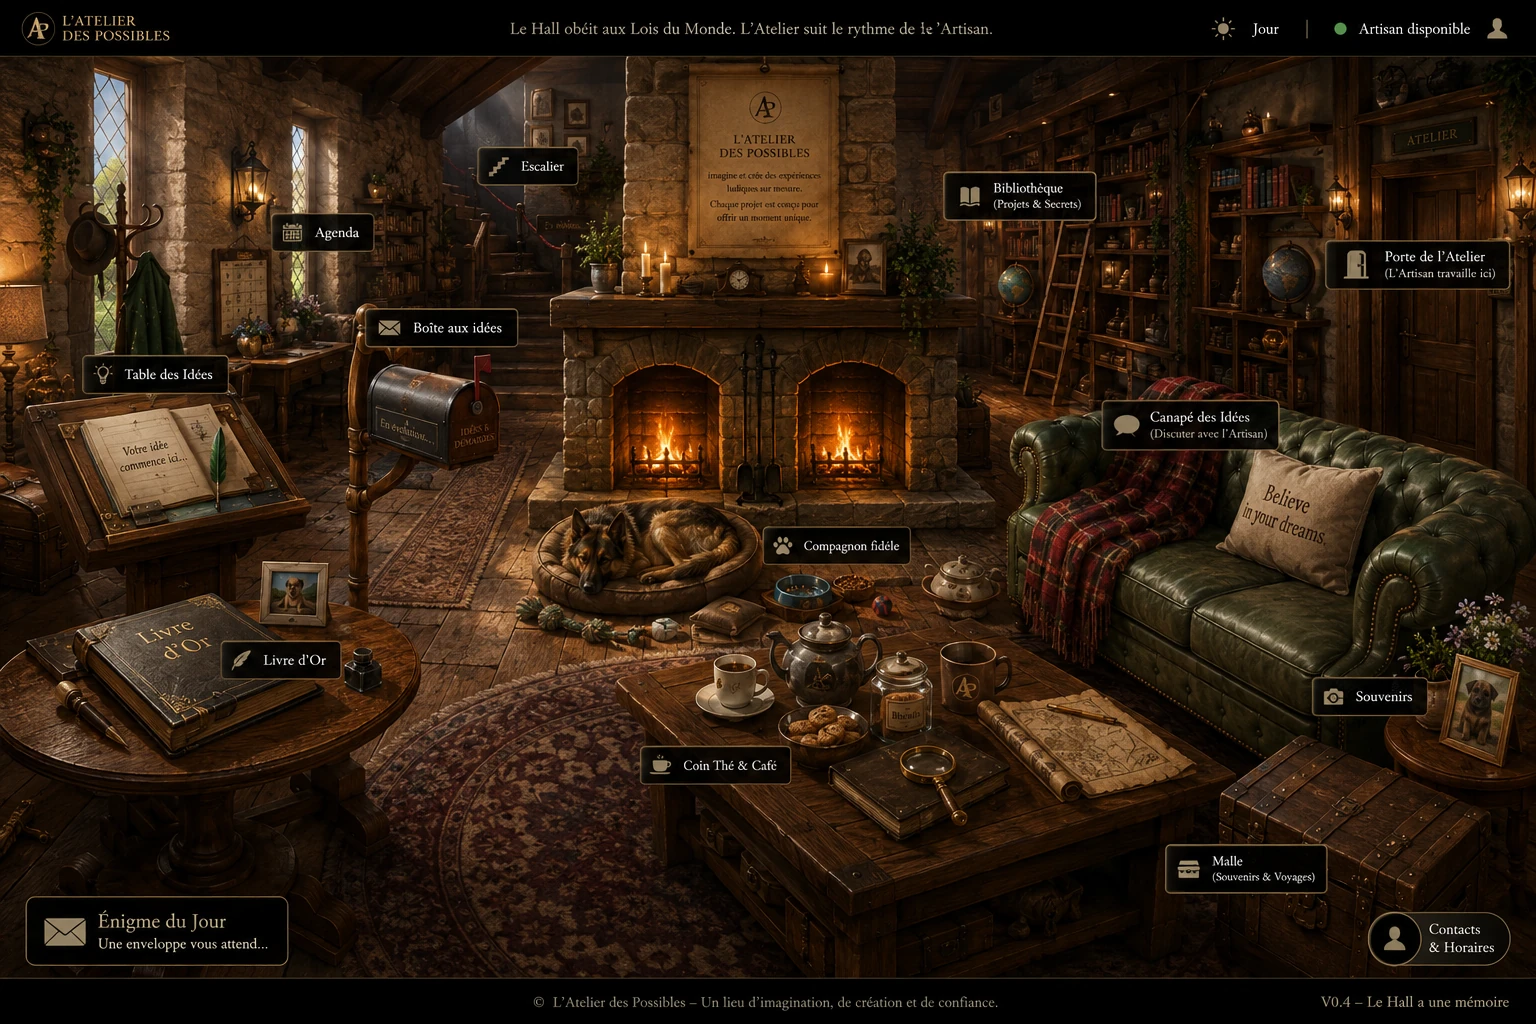
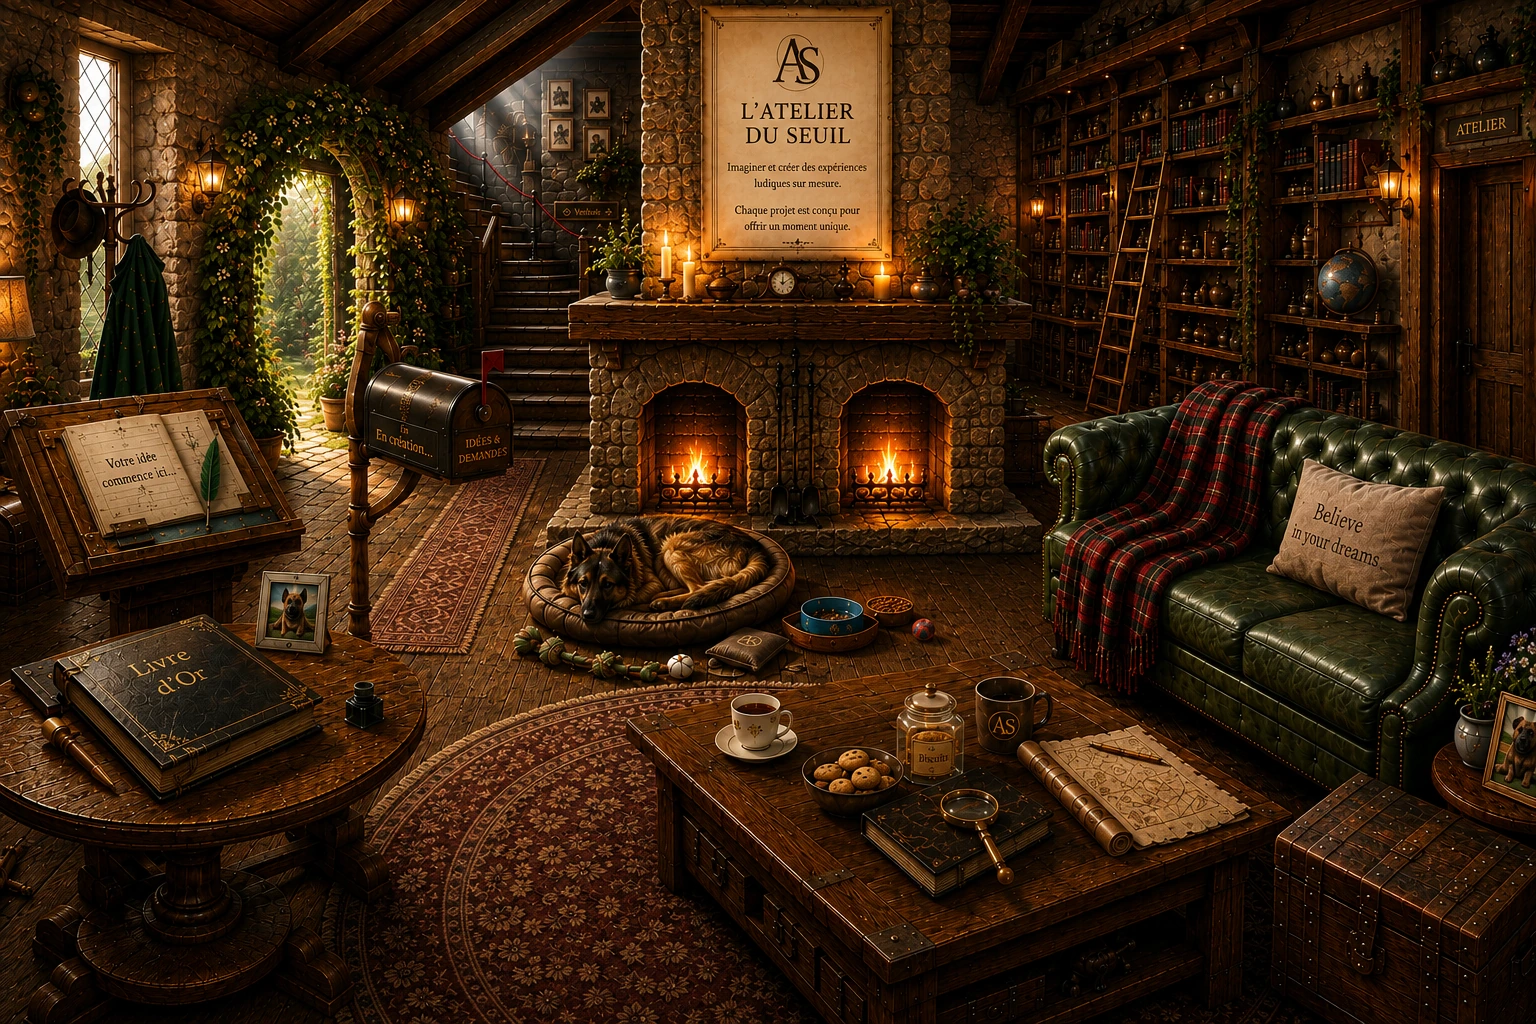
Add files via upload

diff --git a/style.css b/style.css
@@ -418,4 +418,127 @@ button { font: inherit; }
   .choix { display: grid; grid-template-columns: 1fr 1fr; }
   .choix span { display: block; text-align: center; }
 }
-\n\n/* --- V0.6.1 — Le Hall accuse réception --- */\n.mail-flag {\n  position: absolute;\n  left: 30.5%;\n  top: 31.5%;\n  width: 1.2%;\n  min-width: 7px;\n  height: 8.5%;\n  pointer-events: none;\n  opacity: 0;\n  transform-origin: 50% 100%;\n  transform: rotate(-72deg) translateY(10%);\n  border-radius: 6px 6px 2px 2px;\n  background: linear-gradient(90deg, #6b4324, #b98045 48%, #58351d);\n  box-shadow: 0 2px 8px rgba(0,0,0,.6);\n  transition: opacity .4s ease;\n}\n.mail-flag::before {\n  content: "";\n  position: absolute;\n  left: 42%;\n  bottom: -30%;\n  width: 20%;\n  height: 135%;\n  border-radius: 3px;\n  background: #5a351c;\n}\n\n.requete-book {\n  position: absolute;\n  left: 66.8%;\n  top: 31.2%;\n  width: 4.2%;\n  height: 9.5%;\n  min-width: 24px;\n  pointer-events: none;\n  display: grid;\n  place-items: center;\n  opacity: 0;\n  transform: translateY(-36%) rotate(-3deg) scale(.92);\n  border: 1px solid rgba(205,163,86,.72);\n  border-radius: 2px 5px 5px 2px;\n  background: linear-gradient(90deg,#2c1b12 0 13%,#684425 15% 84%,#3b2517 86%);\n  box-shadow: 4px 5px 10px rgba(0,0,0,.55), inset -2px 0 rgba(255,255,255,.05);\n  transition: opacity .5s ease;\n}\n.requete-book span {\n  writing-mode: vertical-rl;\n  transform: rotate(180deg);\n  max-height: 88%;\n  overflow: hidden;\n  color: rgba(238,215,170,.82);\n  font-size: clamp(5px,.5vw,9px);\n  letter-spacing: .04em;\n  white-space: nowrap;\n}\n\n.hall__scene.has-confided-idea .mail-flag {\n  opacity: 1;\n  animation: lever-drapeau 1.15s cubic-bezier(.2,.8,.24,1) both;\n}\n.hall__scene.has-confided-idea .requete-book {\n  opacity: 1;\n  animation: livre-arrive 1.45s cubic-bezier(.16,.82,.22,1) .35s both;\n}\n\n@keyframes lever-drapeau {\n  0% { opacity: 0; transform: rotate(-72deg) translateY(10%); }\n  35% { opacity: 1; }\n  75% { transform: rotate(8deg) translateY(0); }\n  100% { opacity: 1; transform: rotate(0deg) translateY(0); }\n}\n@keyframes livre-arrive {\n  0% { opacity: 0; transform: translateY(-65%) rotate(-8deg) scale(.86); }\n  62% { opacity: 1; transform: translateY(3%) rotate(2deg) scale(1.02); }\n  100% { opacity: 1; transform: translateY(0) rotate(-1deg) scale(1); }\n}\n\n@media (prefers-reduced-motion: reduce) {\n  .hall__scene.has-confided-idea .mail-flag,\n  .hall__scene.has-confided-idea .requete-book { animation: none !important; opacity: 1; transform: none; }\n}\n
+
+/* V0.6.1 — Le Hall accuse réception d'une idée */
+.mail-flag {
+  position: absolute;
+  left: 30.6%;
+  top: 34.2%;
+  width: 1.15%;
+  min-width: 7px;
+  height: 7.5%;
+  pointer-events: none;
+  opacity: 0;
+  transform: rotate(58deg);
+  transform-origin: 50% 92%;
+  border-radius: 999px;
+  background: linear-gradient(90deg, #3d2918, #a47a3f 55%, #4b311b);
+  box-shadow: 0 2px 7px rgba(0,0,0,.65);
+  transition: transform 900ms cubic-bezier(.2,.8,.25,1.18), opacity 500ms ease;
+}
+.mail-flag::after {
+  content: "";
+  position: absolute;
+  top: 0;
+  left: 45%;
+  width: 330%;
+  aspect-ratio: 1.35;
+  border-radius: 2px;
+  background: linear-gradient(145deg, #8d342d, #54201d);
+  box-shadow: inset 0 0 0 1px rgba(255,225,170,.18), 0 2px 5px rgba(0,0,0,.5);
+}
+.mail-flag.is-raised {
+  opacity: .9;
+  transform: rotate(-8deg);
+}
+
+.requete-book {
+  position: absolute;
+  left: 70.1%;
+  top: 22.5%;
+  width: 2.7%;
+  min-width: 17px;
+  height: 14%;
+  pointer-events: none;
+  opacity: 0;
+  transform: translateY(-28%) rotate(2deg) scale(.82);
+  transform-origin: bottom center;
+  border-radius: 2px 3px 3px 2px;
+  background: linear-gradient(90deg, #25160f 0 18%, #6f3f28 20% 78%, #2c190f 80% 100%);
+  box-shadow: inset 1px 0 rgba(238,205,139,.22), 2px 4px 8px rgba(0,0,0,.6);
+  transition: opacity 600ms ease 300ms, transform 1200ms cubic-bezier(.18,.8,.24,1.1) 200ms;
+}
+.requete-book::before {
+  content: "AS";
+  position: absolute;
+  inset: 8% 0 auto;
+  text-align: center;
+  color: rgba(229,196,126,.72);
+  font-size: clamp(5px,.65vw,10px);
+  letter-spacing: .08em;
+}
+.requete-book span {
+  position: absolute;
+  left: 50%;
+  bottom: 8%;
+  width: 600%;
+  transform: translateX(-50%);
+  color: rgba(234,214,174,.75);
+  font-size: clamp(5px,.52vw,9px);
+  text-align: center;
+  white-space: nowrap;
+  opacity: 0;
+  transition: opacity 500ms ease 1.1s;
+}
+.requete-book.is-visible {
+  opacity: .92;
+  transform: translateY(0) rotate(2deg) scale(1);
+}
+.requete-book.is-visible span { opacity: .78; }
+
+.champ-autre[hidden] { display: none; }
+
+@media (prefers-reduced-motion: reduce) {
+  .mail-flag, .requete-book, .requete-book span { transition: none !important; }
+}
+
+/* ==========================================================
+   V0.6.1 — RESTAURATION DE LA DERNIÈRE BASE VALIDÉE
+   Arche végétale + Atelier du Seuil + Table des Idées
+   ========================================================== */
+
+/* La scène restaurée a le ratio natif 3:2 (1536 × 1024). */
+.hall__scene{width:max(100vw,calc(100svh * 1.5));height:100svh}
+
+/* Hotspots recalés sur le Hall restauré. Aucun libellé visuel permanent. */
+.hotspot--arche{left:13.5%;top:10%;width:19%;height:38%}
+.hotspot--idees{left:0%;top:35%;width:20%;height:24%}
+.hotspot--livre{left:0%;top:57%;width:27%;height:25%}
+.hotspot--boite{left:21.5%;top:31%;width:14%;height:25%}
+.hotspot--escalier{left:28%;top:12%;width:15%;height:27%}
+.hotspot--chien{left:33%;top:48%;width:20%;height:19%}
+.hotspot--cafe{left:42%;top:63%;width:36%;height:28%}
+.hotspot--bibliotheque{left:65%;top:4%;width:27%;height:39%}
+.hotspot--atelier{left:91%;top:7%;width:9%;height:39%}
+.hotspot--canape{left:67%;top:36%;width:32%;height:34%}
+.hotspot--souvenirs{left:91%;top:60%;width:9%;height:20%}
+.hotspot--malle{left:82%;top:72%;width:18%;height:27%}
+.hotspot--contacts{display:none}
+.hotspot--agenda{display:none}
+
+/* Énigme du Moment : présence discrète, sans recréer les anciennes bulles. */
+.hotspot--enigme{left:53%;top:69%;width:12%;height:18%}
+
+/* Lueurs recalées sur les deux foyers de la scène restaurée. */
+.fire-glow{top:39%;width:10%;height:20%}
+.fire-glow--left{left:39.5%}
+.fire-glow--right{left:52.5%}
+.dog-breath{left:34%;top:49%;width:17%;height:18%}
+
+/* Réaction locale de la boîte aux idées recalée sur la boîte restaurée. */
+.mail-flag{left:31.3%;top:34%;height:7%}
+.requete-book{left:71%;top:18%;height:15%}
+
+@media (max-width:700px){
+  .hotspot:hover{background:transparent}
+}

diff --git a/index.html b/index.html
@@ -2,11 +2,11 @@
 <html lang="fr"><head><meta charset="UTF-8"><meta name="viewport" content="width=device-width,initial-scale=1.0,viewport-fit=cover"><meta name="theme-color" content="#080b08"><meta name="description" content="Franchissez le seuil du Hall des Possibles."><title>Le Hall des Possibles — V0.6.1</title><link rel="preload" href="hall-vivant.webp" as="image"><link rel="stylesheet" href="style.css?v=0.6.1"><script src="script.js?v=0.6.1" defer></script></head>
 <body><main class="experience" id="experience">
 <section class="seuil" id="seuil" aria-label="Le seuil du Hall des Possibles"><div class="seuil__ambiance" aria-hidden="true"></div><header class="seuil__texte"><h1 class="seuil__titre">Le Hall des Possibles</h1><p class="seuil__phrase">Chaque histoire commence par une porte qui s'ouvre...<span>Que se cache-t-il derrière la vôtre&nbsp;?</span></p></header><div class="scene-porte"><div class="lueur-hall" aria-hidden="true"></div><div class="encadrement" aria-hidden="true"><div class="encadrement__haut"></div><div class="encadrement__gauche"></div><div class="encadrement__droite"></div></div><button class="porte" id="porte" type="button" aria-label="Ouvrir la porte du Hall des Possibles" aria-expanded="false"><span class="porte__panneau porte__panneau--haut" aria-hidden="true"></span><span class="porte__panneau porte__panneau--bas" aria-hidden="true"></span><span class="porte__poignee" aria-hidden="true"><span class="porte__plaque"></span><span class="porte__bouton"></span></span><span class="porte__lumiere" aria-hidden="true"></span></button></div><p class="seuil__invitation" id="invitation">Touchez la porte</p></section>
-<section class="hall" id="hall" aria-label="Le Hall des Possibles" aria-hidden="true"><div class="hall__panorama" id="panorama" tabindex="0"><div class="hall__scene" id="scene"><img class="hall__image" src="hall-vivant.webp" alt="Le Hall des Possibles, vaste atelier chaleureux autour d'une cheminée double foyer." draggable="false"><div class="fire-glow fire-glow--left" aria-hidden="true"></div><div class="fire-glow fire-glow--right" aria-hidden="true"></div><div class="dog-breath" aria-hidden="true"></div><div class="mail-flag" id="mail-flag" aria-hidden="true"></div><div class="requete-book" id="requete-book" aria-hidden="true"><span>Projet confié</span></div>
+<section class="hall" id="hall" aria-label="Le Hall des Possibles" aria-hidden="true"><div class="hall__panorama" id="panorama" tabindex="0"><div class="hall__scene" id="scene"><img class="hall__image" src="hall-vivant.webp" alt="Le Hall des Possibles, vaste atelier chaleureux de l’Atelier du Seuil, avec son arche végétale, sa cheminée double foyer et son compagnon fidèle." draggable="false"><div class="fire-glow fire-glow--left" aria-hidden="true"></div><div class="fire-glow fire-glow--right" aria-hidden="true"></div><div class="dog-breath" aria-hidden="true"></div><div class="mail-flag" id="mail-flag" aria-hidden="true"></div><div class="requete-book" id="requete-book" aria-hidden="true"><span>Projet confié</span></div>
 <button class="hotspot hotspot--enigme" data-title="L'Énigme du Moment" data-text="L’Atelier vous confie ceci, si la curiosité vous appelle.|Je nais sans bruit, je grandis quand on me partage, et je peux ouvrir des mondes sans posséder de clé. Qui suis-je ?" aria-label="Ouvrir l'Énigme du Moment"></button>
 <button class="hotspot hotspot--livre" data-title="Le Livre d'Or" data-text="Ce livre recueillera les traces laissées par les Visiteurs. Pour le moment, ses premières pages attendent encore leur histoire." aria-label="Observer le Livre d'Or"></button>
 <button class="hotspot hotspot--idees" data-title="La Table des Idées" data-action="table-idees" aria-label="Approcher la Table des Idées"></button>
-<button class="hotspot hotspot--agenda" data-title="L'Agenda" data-text="Certaines dates sont entourées à l'encre. D'autres portent seulement un mot, comme si l'Artisan savait déjà qu'elles compteraient." aria-label="Observer l'Agenda"></button>
+<button class="hotspot hotspot--arche" data-title="L’Arche végétale" data-text="Le Hall ne retient pas ceux qui souhaitent poursuivre. Derrière les feuilles, un autre espace respire déjà.|Le Jardin attend sans appeler." aria-label="Observer l’Arche végétale"></button>
 <button class="hotspot hotspot--escalier" data-title="L'Escalier" data-text="L'étage poursuit encore sa transformation. La barrière ne ferme pas un chemin : elle protège ce qui n'est pas encore prêt." aria-label="Observer l'Escalier"></button>
 <button class="hotspot hotspot--boite" data-title="La Boîte aux idées" data-text="Elle attend les demandes, les questions et les simples bonjours. Son petit drapeau se lèvera lorsqu'une nouvelle idée lui sera confiée." aria-label="Observer la Boîte aux idées"></button>
 <button class="hotspot hotspot--chien" data-title="Le Compagnon fidèle" data-text="Il dort près du feu, entouré de sa balle, de sa corde et de quelques souvenirs. Il semble connaître chaque recoin du Hall." aria-label="Observer le chien"></button>

diff --git a/script.js b/script.js
@@ -14,7 +14,8 @@
   const tableIdeesClose = document.querySelector("#table-idees-close");
   const tableIdeesForm = document.querySelector("#table-idees-form");
   const tableIdeesRetour = document.querySelector("#table-idees-retour");
-  const scene = document.querySelector("#scene");
+  const mailFlag = document.querySelector("#mail-flag");
+  const requeteBook = document.querySelector("#requete-book");
 
   if (!seuil || !porte || !hall || !panorama) return;
 
@@ -148,9 +149,6 @@
       // V0.6.1 : la Table fonctionne déjà comme expérience locale.
       // L'envoi réel sera branché ensuite sur la boîte aux lettres / messagerie.
       tableIdeesForm.classList.add("is-confiee");
-      if (scene) {
-        scene.classList.add("has-confided-idea");
-      }
       if (tableIdeesRetour) {
         tableIdeesRetour.textContent = "Merci d’avoir accordé votre confiance à l’Atelier. Votre idée a trouvé sa place au Seuil.";
       }
@@ -159,8 +157,37 @@
         submit.disabled = true;
         submit.textContent = "Idée confiée";
       }
+
+      // Le Hall accuse réception sans interrompre le Requêteur :
+      // le bras de la boîte se lève et un livre rejoint la bibliothèque.
+      if (mailFlag) mailFlag.classList.add("is-raised");
+      if (requeteBook) requeteBook.classList.add("is-visible");
+
+      // On conserve uniquement cette trace dans la session en cours.
+      try { sessionStorage.setItem("seuil-idee-confiee", "1"); } catch (_) {}
     });
   }
+
+  // Si la Table a déjà reçu une idée pendant cette visite, le Hall garde la trace.
+  try {
+    if (sessionStorage.getItem("seuil-idee-confiee") === "1") {
+      if (mailFlag) mailFlag.classList.add("is-raised");
+      if (requeteBook) requeteBook.classList.add("is-visible");
+    }
+  } catch (_) {}
+
+  // Le champ « Autre » ne s'invite que lorsqu'il est réellement utile.
+  const publicAutre = tableIdeesForm?.querySelector('[name="public_autre"]');
+  const publicRadios = tableIdeesForm?.querySelectorAll('[name="public"]');
+  const syncPublicAutre = () => {
+    if (!publicAutre || !publicRadios) return;
+    const autre = [...publicRadios].some(radio => radio.checked && radio.value === "Autre");
+    publicAutre.hidden = !autre;
+    publicAutre.disabled = !autre;
+    if (!autre) publicAutre.value = "";
+  };
+  if (publicRadios) publicRadios.forEach(radio => radio.addEventListener("change", syncPublicAutre));
+  syncPublicAutre();
 
   const image = panorama.querySelector("img");
   if (image) {
